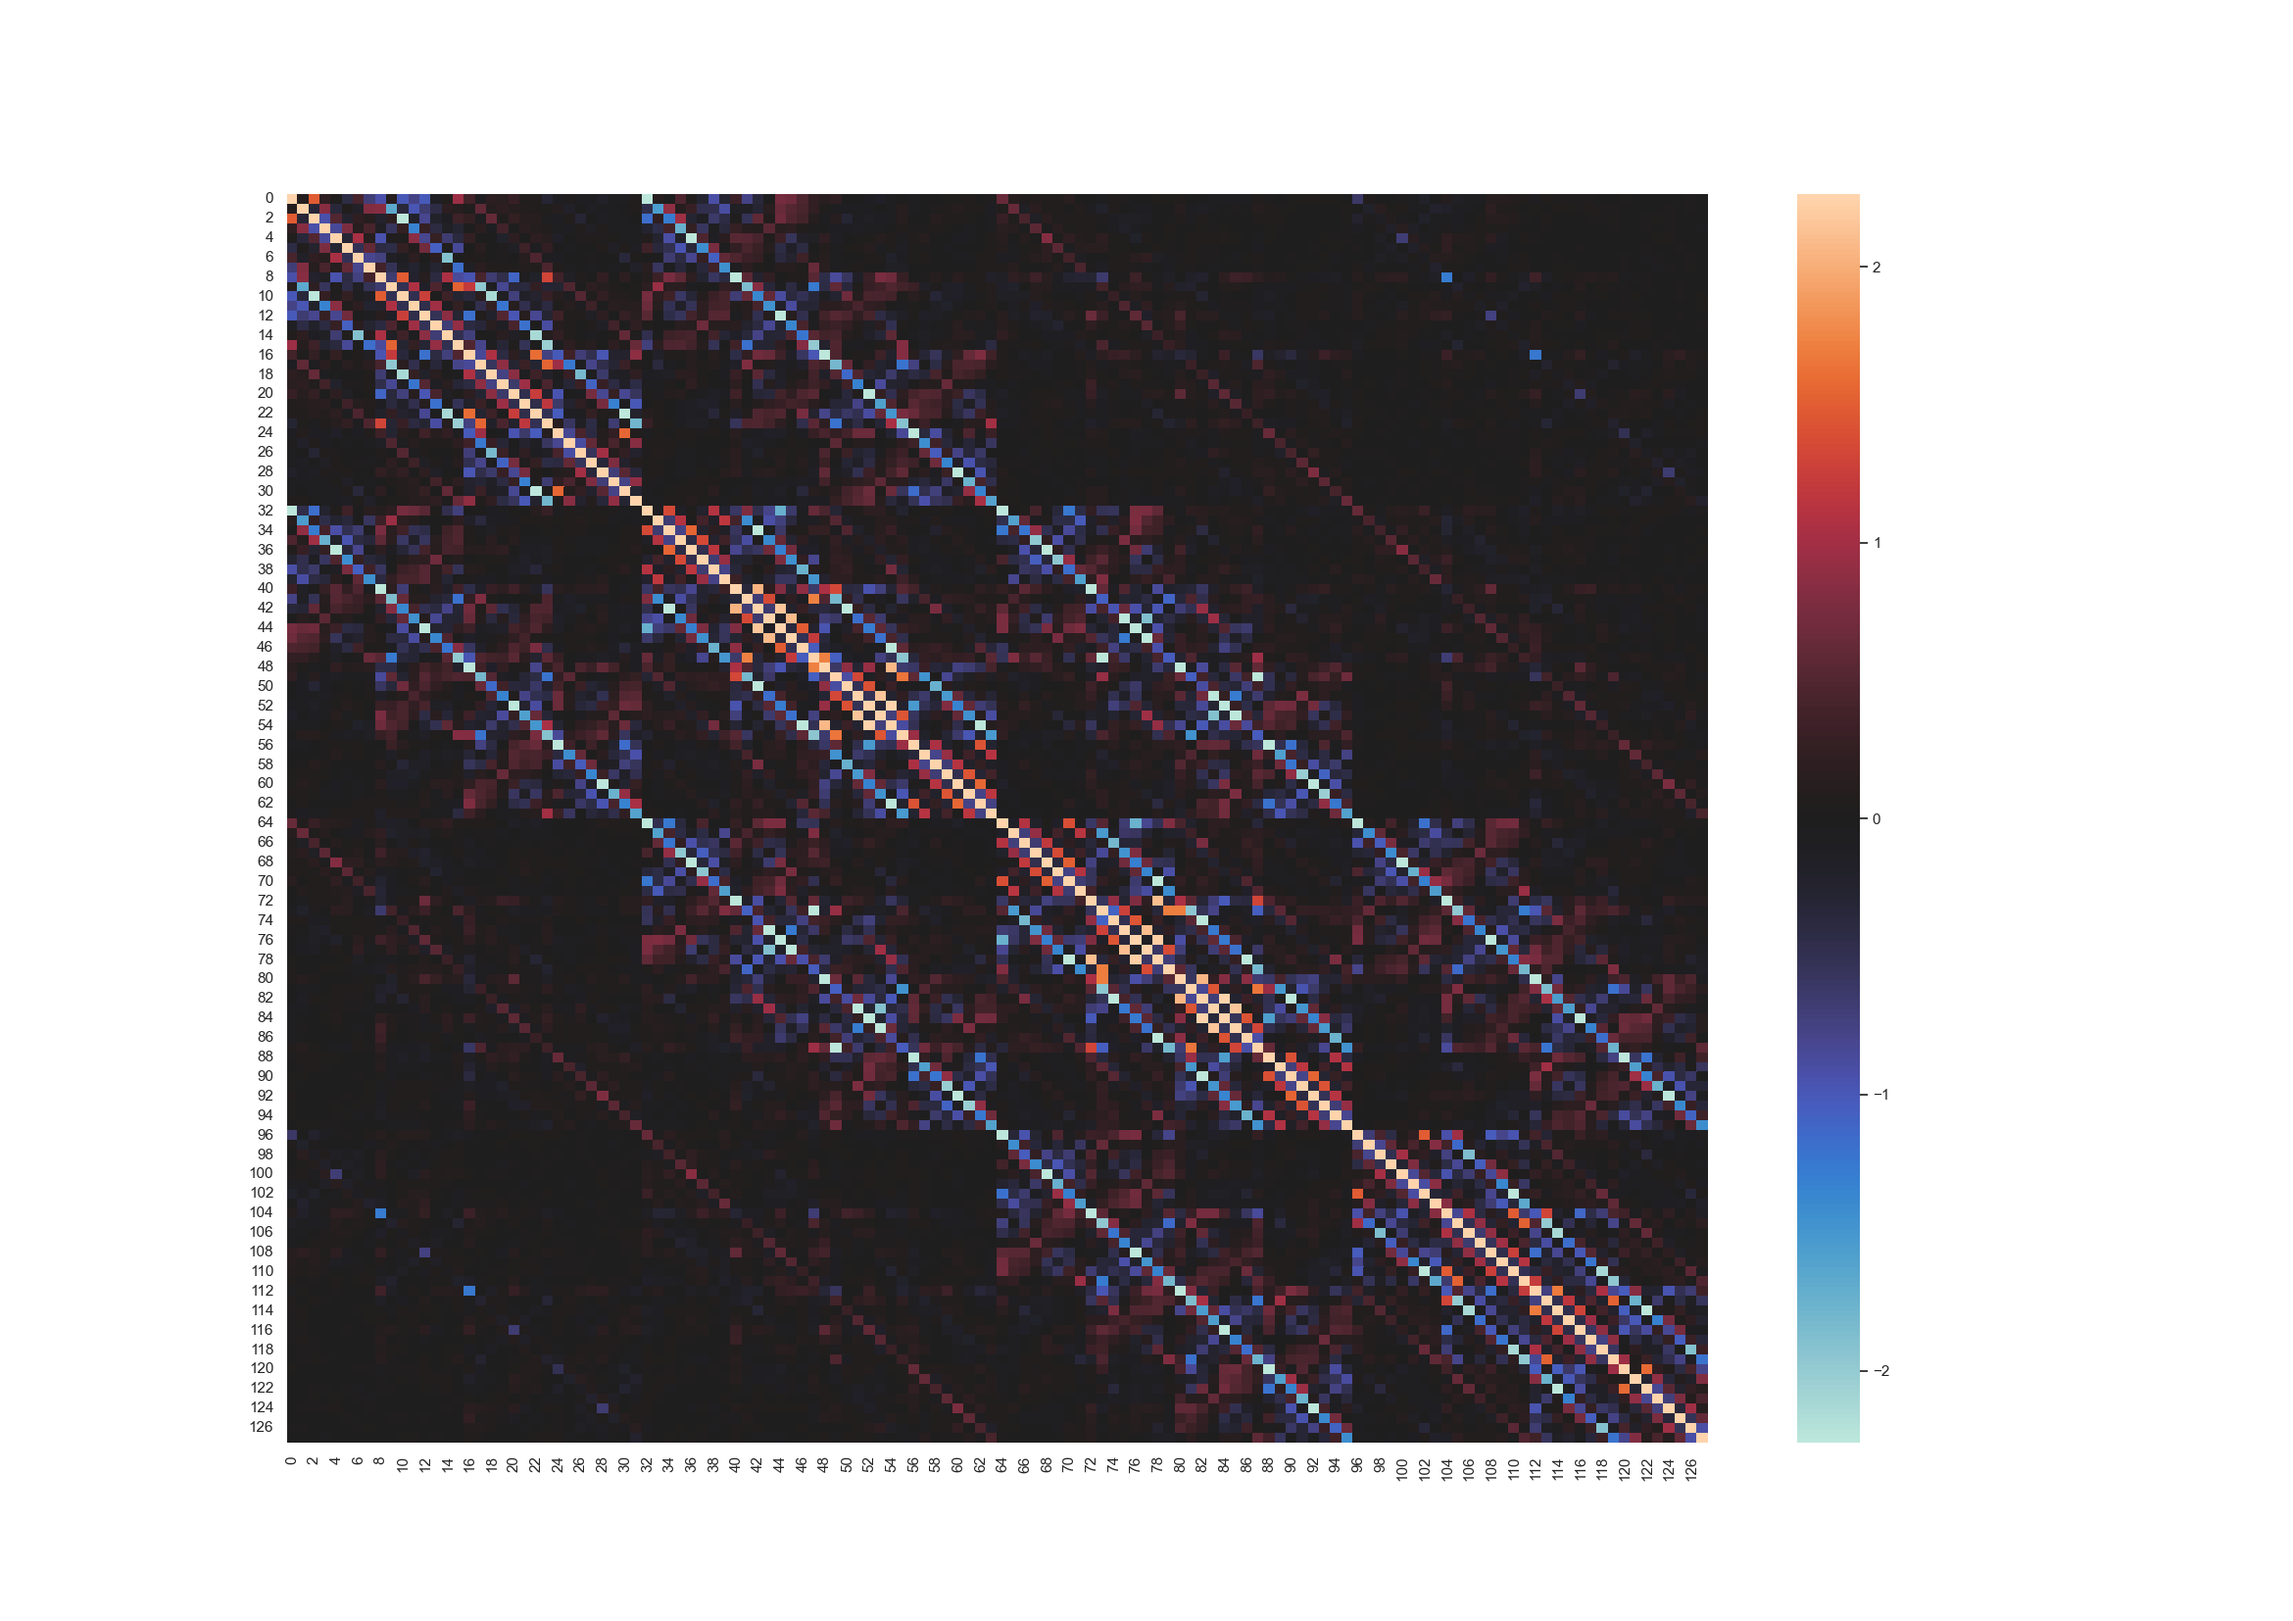
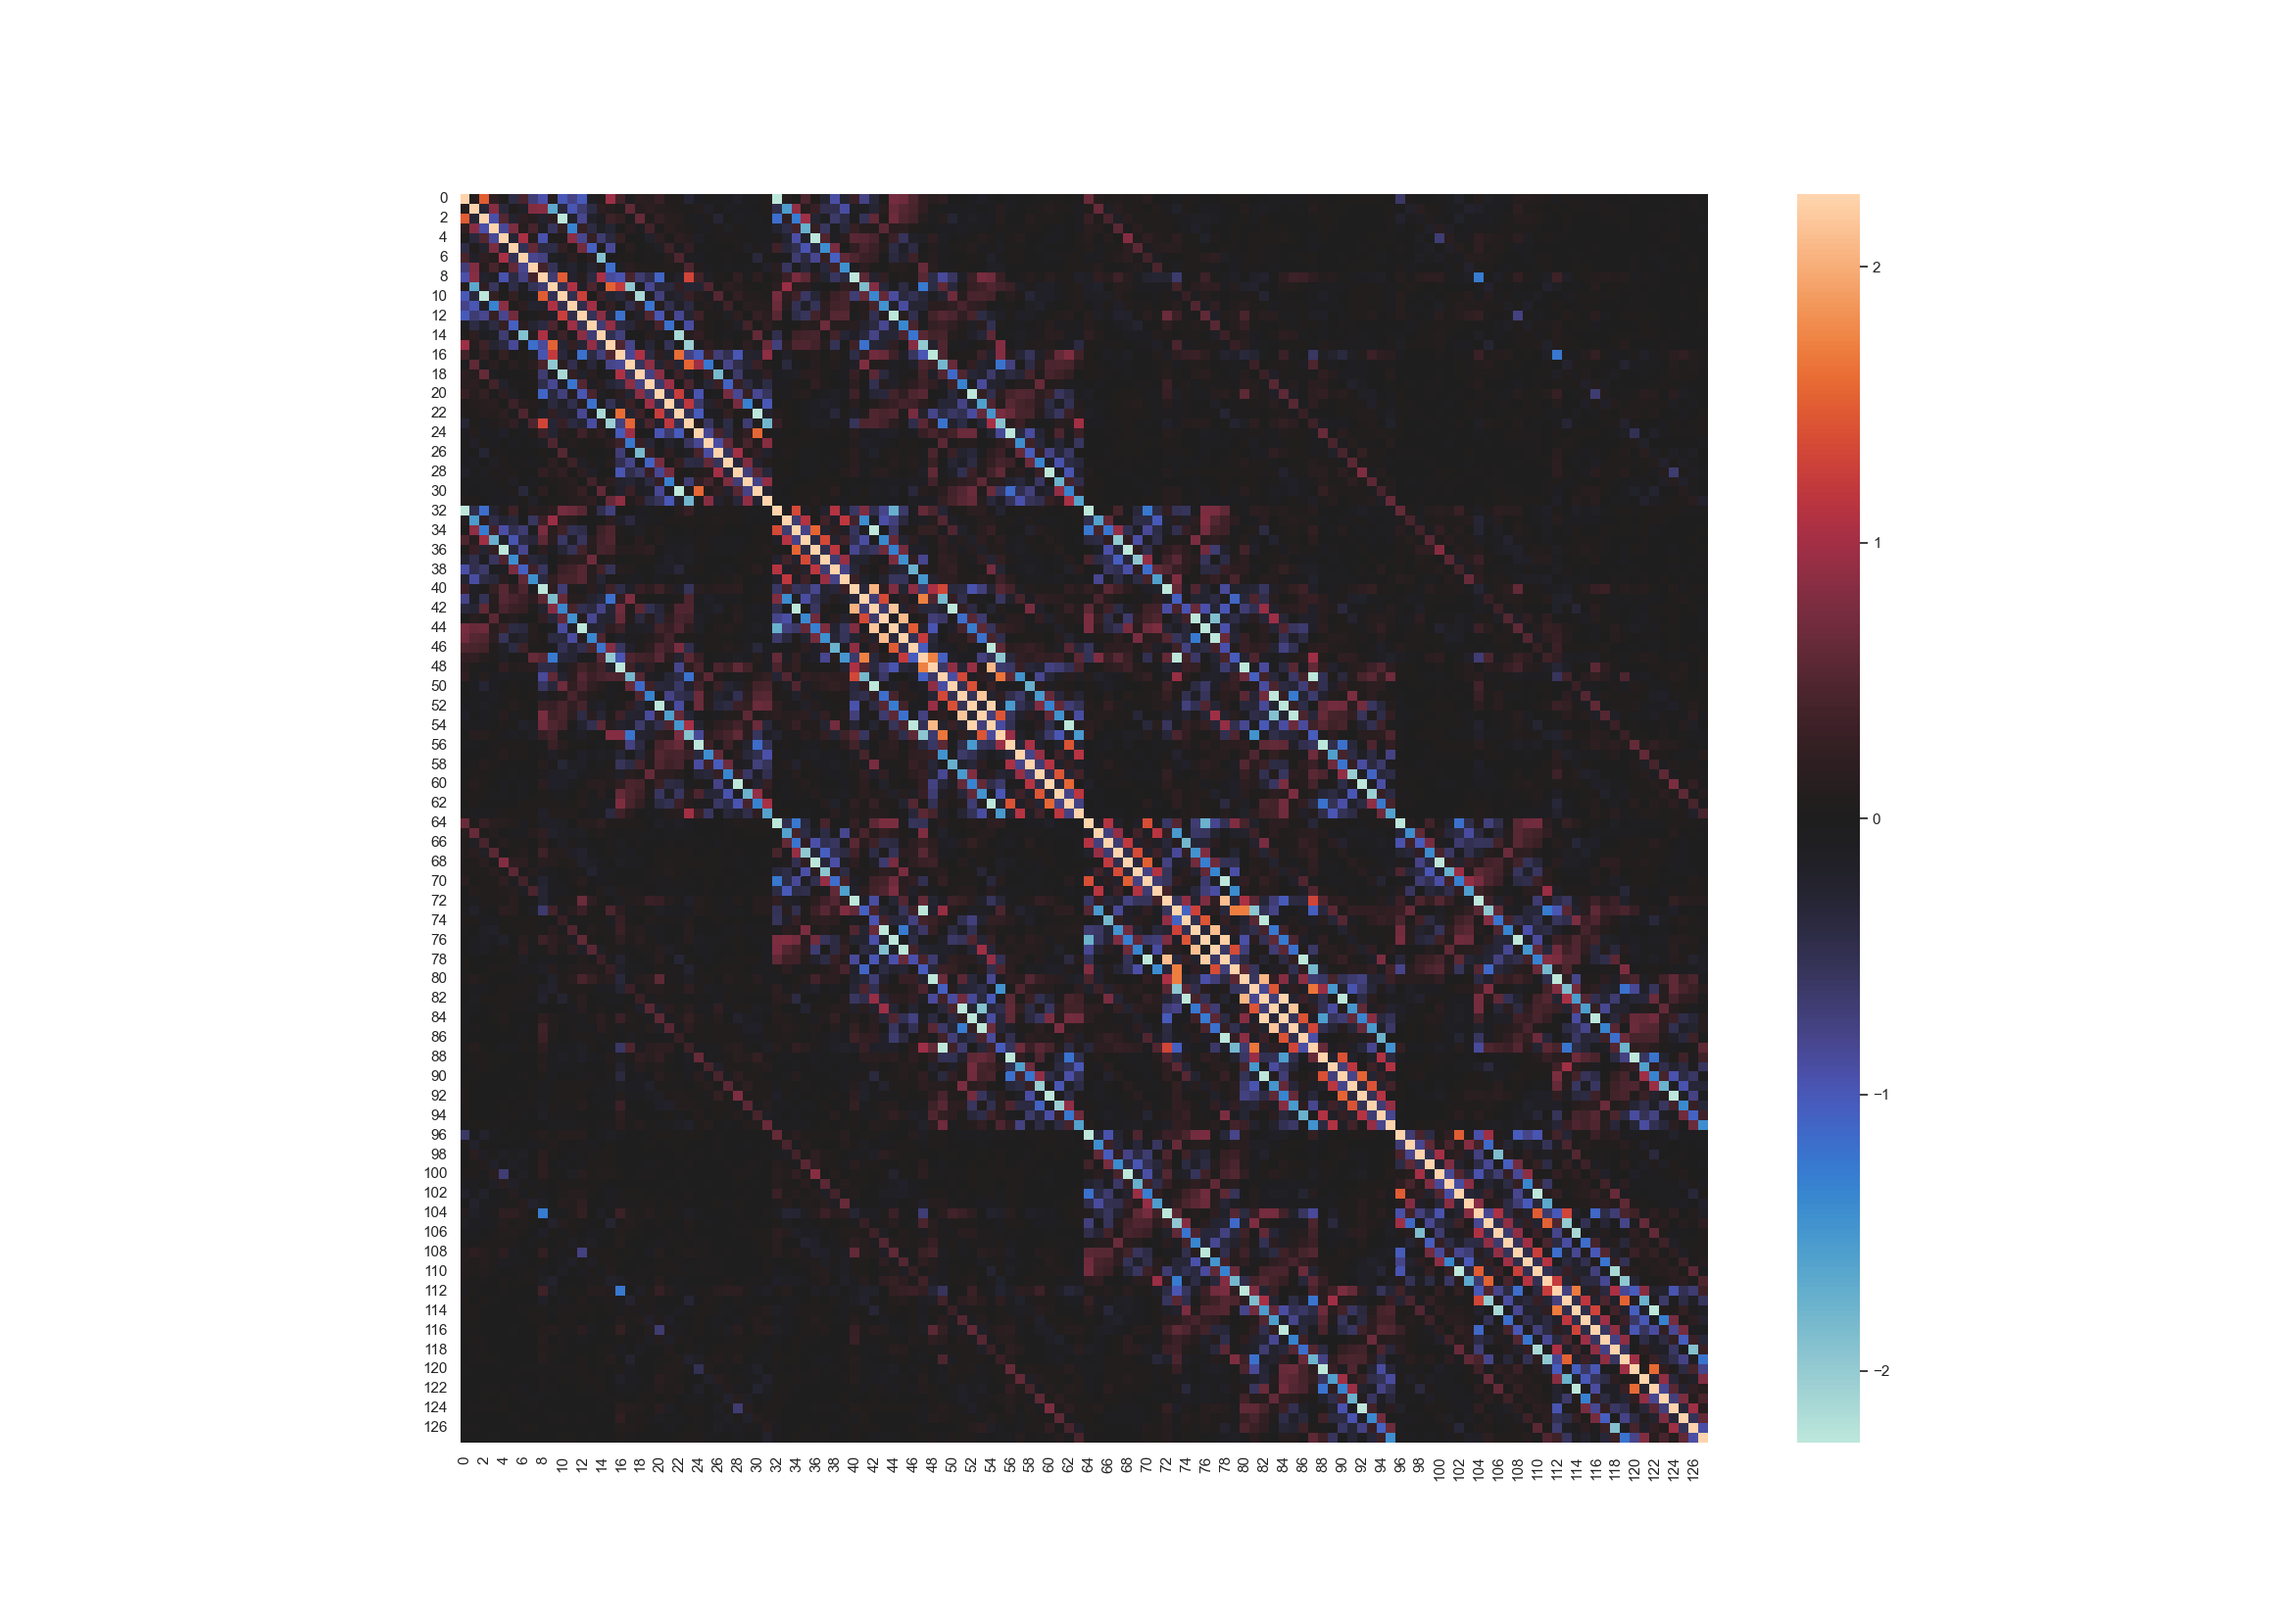
multicollinearity

diff --git a/src/algorithms/sharding/clustering/multicollinearity.py b/src/algorithms/sharding/clustering/multicollinearity.py
@@ -116,9 +116,20 @@ def calculate_variance(
     vmax = sorted_vals[0][1]
     vmin = vmax * -1
     sns.set(rc={'figure.figsize':(wd,ht)})
-    heat = sns.heatmap(inv,annot=False,center=0,vmax=vmax,vmin=vmin)
+
+    #heatmap of VIF
+    heat = sns.heatmap(inv,annot=False,center=0,vmax=vmax,vmin=vmin,square=True)
     fig = heat.get_figure()
     fig.savefig(f'multicollinearity_heatmap_{config_file}.png')
+
+    #Only show half
+    for i in range(0,vif.shape[0]):
+        for j in range(i,vif.shape[1]):
+            vif.iloc[i,j] = 0.0
+    heat2 = sns.heatmap(inv,annot=False,center=0,vmax=vmax,vmin=vmin,square=True)
+    fig2 = heat2.get_figure()
+    fig2.savefig(f'multicollinearity_heatmap2_{config_file}.png')
+
 
 if __name__ == "__main__":
     calculate_variance(INDEX_PATH,DATA_FILE,DATA_TYPE)
